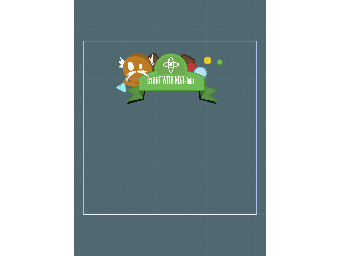
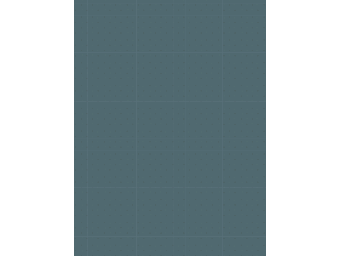
Refactoring UI Menu finished

Changed region(s): [[0.2353, 0.1562, 0.7647, 0.4062], [0.2353, 0.8125, 0.7647, 0.8438]]

diff --git a/NOThInG/src/types/UI_Menu_Manager/oncreate.js b/NOThInG/src/types/UI_Menu_Manager/oncreate.js
@@ -21,14 +21,37 @@ this.showStartingMenu = function () {
     if (this.uiElements.length > 0) {
         this.clearMenu();
     }
-    this.showModalBackground();
-    this.uiElements[0].tint = 0x373737;
     this.uiElements.push(ct.types.make("UI_Menu", POS.title.x, POS.title.y));
     this.uiElements.push(ct.types.make("UI_Start", POS.firstB.x, POS.firstB.y));
     this.uiElements.push(ct.types.make("UI_Select", POS.secondB.x, POS.secondB.y));
     this.uiElements.push(ct.types.make("UI_Exit", POS.thirdB.x, POS.thirdB.y));
     // PIXI.ticker.shared.speed = 0;
     // ct.pixiApp.ticker.speed = 0;
+};
+
+this.showLevelMenu = function () {
+    if (this.uiElements.length > 0) {
+        this.clearMenu();
+    }
+    this.uiElements.push(ct.types.make("UI_Menu", POS.title.x, POS.title.y));
+    
+    let x = 0;
+    let max_x =  (ct.viewWidth - 400) / TILE_SIZE;
+    
+    let initial_x = 200;
+    let initial_y = 800;
+    
+    const rooms = Object.keys(ct.rooms.templates).sort().filter(e => NON_LEVEL_ROOMS.indexOf(e) === -1)
+    rooms.forEach(room => {
+        let coord_x = x % max_x;
+        let coord_y = Math.floor(x / max_x);
+        ct.types.copy("Level_Select_Button", (coord_x* TILE_SIZE) + initial_x, (coord_y*TILE_SIZE)+ initial_y) 
+        x ++;
+});
+
+ct.types.list['Level_Select_Button'].forEach((button, index) => {
+  button.setLevelName(rooms[index])
+});
 };
 
 this.showGameMenu = function () {

diff --git a/NOThInG/src/rooms/Menu_Level_Select/oncreate.js b/NOThInG/src/rooms/Menu_Level_Select/oncreate.js
@@ -1,20 +1,5 @@
-let x = 0;
-let max_x =  5;
+this.menuManager = ct.types.make("UI_Menu_Manager");
+this.menuManager.showLevelMenu();
 
-let initial_x = 200;
-let initial_y = 400;
-
-
-
-const rooms = Object.keys(ct.rooms.templates).sort().filter(e => NON_LEVEL_ROOMS.indexOf(e) === -1)
-rooms.forEach(room => {
-    let coord_x = x % max_x;
-    let coord_y = Math.floor(x / max_x);
-   ct.types.copy("Level_Select_Button", (coord_x* TILE_SIZE) + initial_x, (coord_y*TILE_SIZE)+ initial_y) 
-   x ++;
-});
-
-ct.types.list['Level_Select_Button'].forEach((button, index) => {
-  button.setLevelName(rooms[index])
-});
+this.menu = false;
 

diff --git a/NOThInG/src/rooms/Menu_Level_Select/onstep.js b/NOThInG/src/rooms/Menu_Level_Select/onstep.js
@@ -1,0 +1,3 @@
+if (ct.actions.Menu.pressed) {
+    ct.rooms.switch("Menu");
+}
